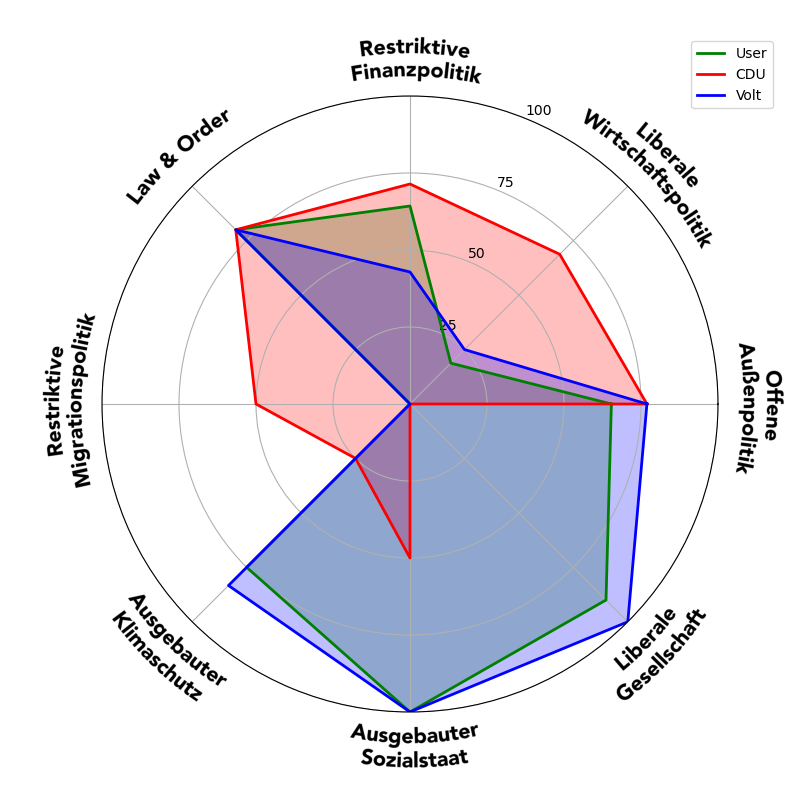
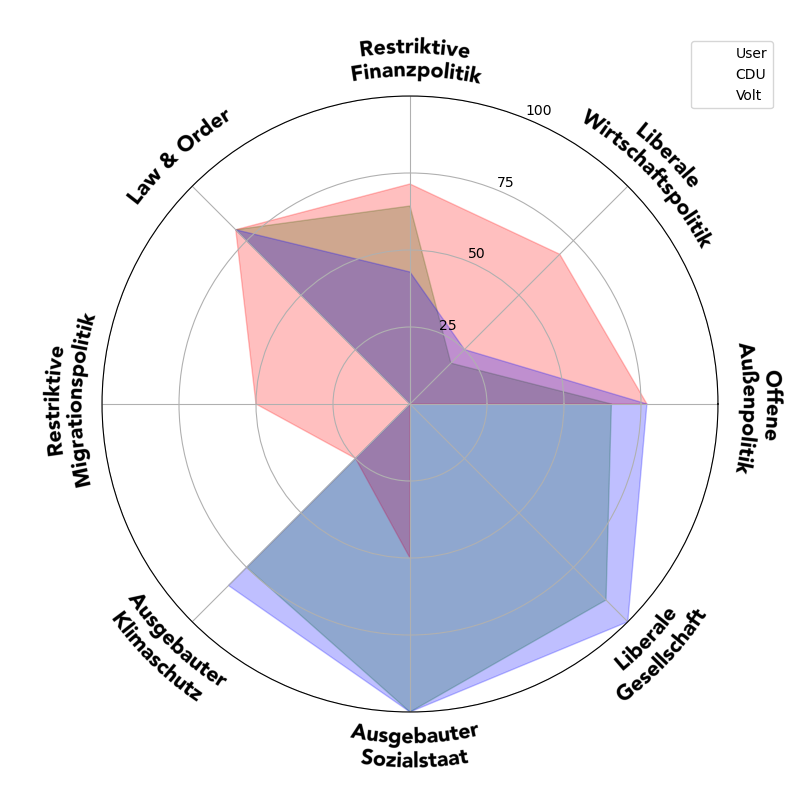
edited spyderplot

diff --git a/Backend/Score_Evaluation/OptionalGraphs/Spyer_Calc.py b/Backend/Score_Evaluation/OptionalGraphs/Spyer_Calc.py
@@ -163,10 +163,10 @@ def PlotSpider(User_data,Party_data1,Party_data2,Party_data3):
     #ax.fill(angles, Party2, color='green', alpha=0.25)
     ax.fill(angles, Party3, color='blue', alpha=0.25)
     # Plot line
-    ax.plot(angles, User, color='green', linewidth=2, label='User')
-    ax.plot(angles, Party1, color='red', linewidth=2, label='CDU')
+    ax.plot(angles, User, color='green', linewidth=0, label='User')
+    ax.plot(angles, Party1, color='red', linewidth=0, label='CDU')
     #ax.plot(angles, Party2, color='green', linewidth=2, label='Grünen')
-    ax.plot(angles, Party3, color='blue', linewidth=2, label='Volt')
+    ax.plot(angles, Party3, color='blue', linewidth=0, label='Volt')
 
     ax.set_rlabel_position(68)
     ax.set_rticks([25, 50, 75, 100])
